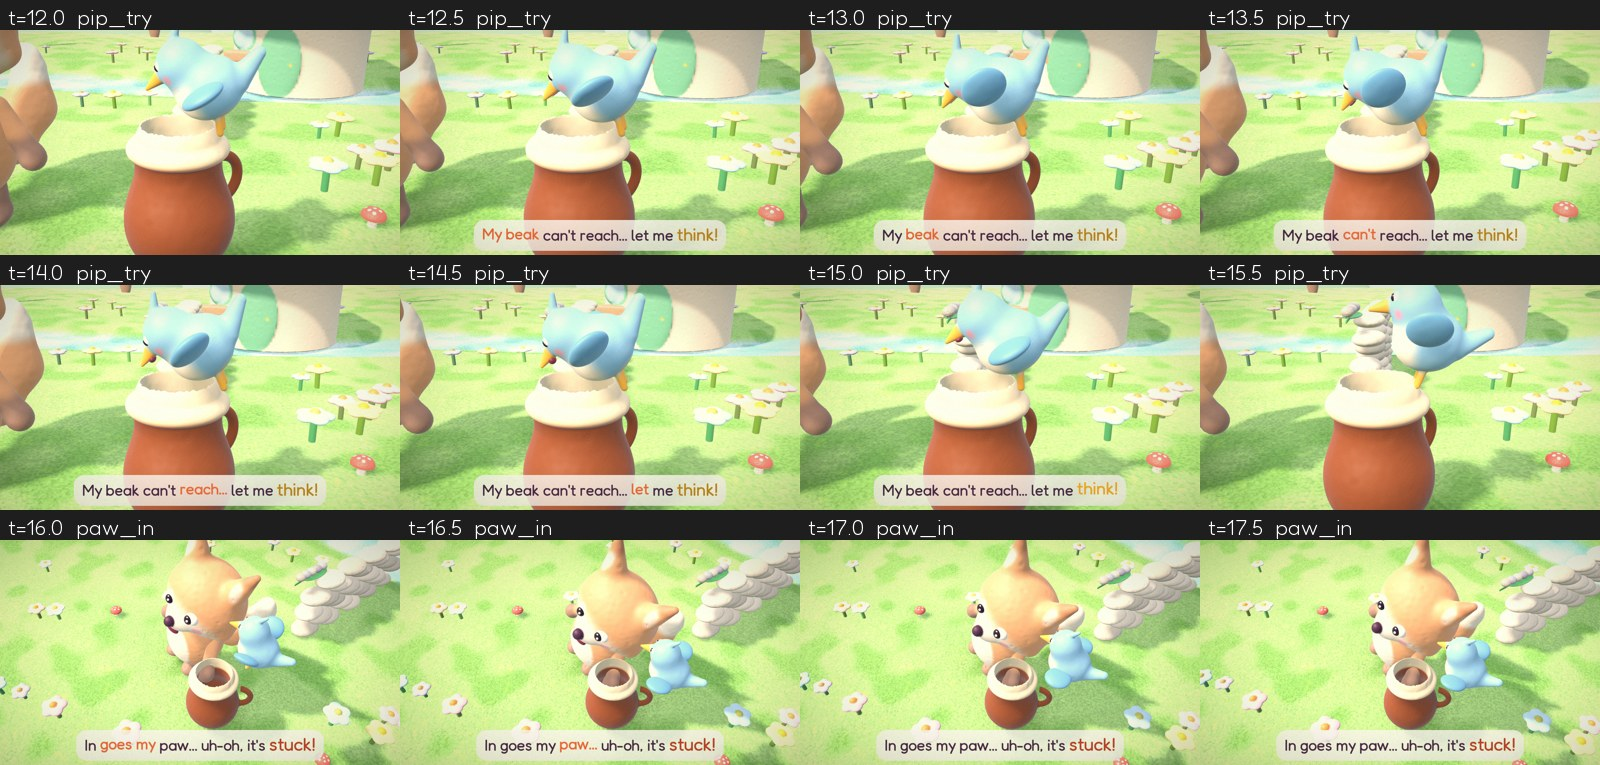
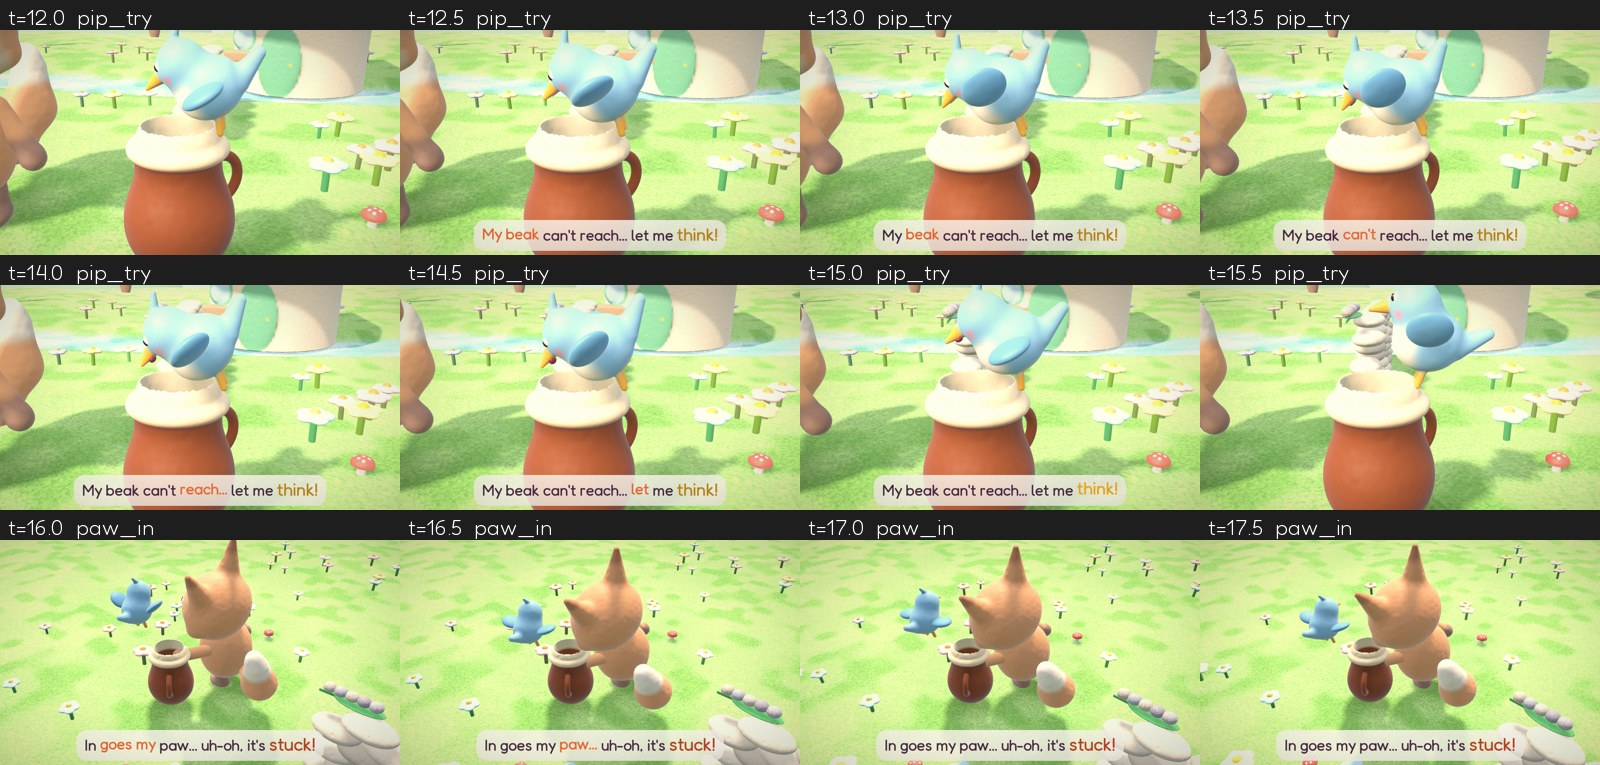
Fable 3: review round 2 fixes (paw-in from behind plus a face reaction shot, droplet sprays, pebbles sink at once, hook neck, wide count framing)
Claude-Session: https://claude.ai/code/session_01BFozMBD3P58CaUxgzuKyHS

Changed region(s): [[0.0, 0.6915, 1.0, 1.0], [0.0, 0.9621, 0.0312, 0.9922]]

diff --git a/batches/01-fables-friendship/fable-03-pebble-pebble-plop/code/render.py b/batches/01-fables-friendship/fable-03-pebble-pebble-plop/code/render.py
@@ -110,8 +110,8 @@ def tumble(t):
         L = T.line("Setup B")
         if t > L["t1"]: st["head"][0] = 0.1 * math.sin((t - L["t1"]) * 8) * math.exp(-(t - L["t1"]))
         pant(st, t)
-    elif n == "paw_in":
-        a = SH[n][0]
+    elif n in ("paw_in", "paw_stuck"):
+        a = SH["paw_in"][0]
         u = ease(clampu(t, T.PAW_IN - 0.2, T.PAW_IN + 0.7))
         st["roll"] = STUCK_ROLL * u; st["y"] += 0.036 * u
         st["arms"][0] = lerp([0.5, 1.4], STUCK_ARM, ease(clampu(t, T.PAW_IN - 0.2, T.PAW_IN + 0.4))).tolist() if t > T.PAW_IN - 0.2 else [0.2, 0.3]
@@ -268,7 +268,7 @@ def pip_state(t, st, mats):
     face = apply(Mh, (0, 1.5, 0.6))
     into = facing(RIM_FAR, JC)
     if n in ("hook_peer", "hook_pov"):                     # peering down into the jug
-        pk = 0.45 + 0.08 * math.sin(t * 2.2)
+        pk = (0.45 if n == "hook_peer" else 0.12) + 0.05 * math.sin(t * 2.2)
         return RIM_FAR, into, False, pk, True, {"wings": (0.3, 0.3)}
     if n in ("title_wide", "hot_walk"):                    # hot: fanning himself with a wing on the rim
         yaw = into + 0.9 * ease(clampu(t, SH["title_wide"][0] + 0.5, SH["title_wide"][0] + 1.2))
@@ -281,8 +281,8 @@ def pip_state(t, st, mats):
         ex = {"wings": (1.0 + 0.3 * math.sin(t * 16), 1.0 + 0.3 * math.sin(t * 16 + 1))} if reach > 0.5 else {"wings": (0.2, 0.2)}
         if t > L["t1"] - 0.2: ex = {"point": True}         # "let me think!": wing up to his head
         return RIM_FAR, into, False, pk * (t < L["t1"] - 0.2) + 0.0, True, ex
-    if n == "paw_in":                                      # hops off the rim to hover beside, clear of the paw
-        a = SH[n][0]; u = clampu(t, a, a + 0.7)
+    if n in ("paw_in", "paw_stuck"):                       # hops off the rim to hover beside, clear of the paw
+        a = SH["paw_in"][0]; u = clampu(t, a, a + 0.7)
         p = lerp(RIM_FAR, HOVER_R, ease(u)); p[1] += 0.3 * math.sin(math.pi * u)
         p = p + np.array([0, 0.05 * math.sin(t * 6), 0]) * (u >= 1)
         return p, facing(p, face), True, 0.0, False, {"gentle": True}
@@ -367,10 +367,10 @@ def pebbles(t, st, mats, Mp, jugM):
                 u = clampu(t, c, c + 0.22)
                 p = top.copy(); p[1] = lerp(top[1], surf_y, u * u)
                 if t > c + 0.22:
-                    bot = jw(PEB_BOTTOM[k]); v = ease(clampu(t, c + 0.22, c + 0.9))
+                    bot = jw(PEB_BOTTOM[k]); v = ease(clampu(t, c + 0.22, c + 0.42))        # slips under the surface at once and settles on the floor
                     p = lerp(np.array([JC[0], surf_y, JC[2]]), bot, v)
                 out.append(p)
-        elif n in ("roll_back", "pull") or (n == "paw_in"):
+        elif n in ("roll_back", "pull") or n in ("paw_in", "paw_stuck"):
             out.append(seat)
         elif n in ("hook_peer", "hook_pov", "title_wide", "hot_walk", "pip_try"):
             out.append(seat)
@@ -385,8 +385,8 @@ def camera(t):
         tgt = lerp(RIM_FAR, JC, 0.5) + np.array([0, 0.05, 0])
         return fit_cam(tgt, lerp(8, 18, e), 14, 0.75, 0.75, lift=0.1)
     if name == "hook_pov":                                 # overhead down the neck: the water is way down there
-        tgt = jw((0, 0.4, 0)) - np.array([0.1, 0, 0])
-        return fit_cam(tgt, -60, lerp(78, 82, e), 0.5, 0.5, fov=40, lift=0.0)
+        tgt = jw((0, 0.35, 0)) - np.array([0.1, 0, 0])
+        return fit_cam(tgt, -60, lerp(72, 77, e), 0.7, 0.7, fov=40, lift=0.0)
     if name == "title_wide":
         return fit_cam(np.array([lerp(TS[0], J[0], 0.4) - 0.3, 1.5, J[1] - 0.6]), 8, 9, 3.0, 2.7 if not WIDE else 2.0, lift=0.05)
     if name == "hot_walk":                                 # low tracking alongside the trudge
@@ -396,17 +396,19 @@ def camera(t):
     if name == "pip_try":                                  # macro, side-on to Pip's beak and the mouth of the jug
         tgt = lerp(RIM_FAR, JC, 0.5) + np.array([0, 0.0, 0])
         return fit_cam(tgt, lerp(10, 2, e), 20, 0.62, 0.62, fov=34, lift=0.12)
-    if name == "paw_in":                                   # medium front: the paw goes in, uh-oh
-        return fit_cam(np.array([lerp(TS[0], J[0], 0.55), 0.95, TS[1] + 0.2]), lerp(52, 62, e), lerp(48, 42, e), 1.4, 1.4)   # high three-quarter: the paw goes down into the mouth
+    if name == "paw_in":                                   # from behind and above: his arm runs out to the jug and in
+        return fit_cam(np.array([0.15, 0.95, -0.2]), lerp(132, 142, e), 33, 1.8, 1.7 if not WIDE else 1.6)
+    if name == "paw_stuck":                                # reaction: the face on "stuck!", the jug at his chest
+        return fit_cam(np.array([lerp(TS[0], J[0], 0.55), 0.95, TS[1] + 0.2]), lerp(52, 62, e), lerp(48, 42, e), 1.4, 1.4)
     if name == "pull":                                     # wide low angle: pull, pull, POP
-        return fit_cam(np.array([lerp(TS[0], J[0], 0.55), 1.05, TS[1] + 0.2]), lerp(58, 50, e), 38, 1.8, 1.8)
+        return fit_cam(np.array([0.15, 0.95, -0.2]), 138, 33, 2.0, 2.0)
     if name == "roll_back":                                # wide side: the roll back to the wall
         k = ease(clampu(t, SH["roll_back"][0], T.ROLL_END + 0.3))
         k2 = ease(clampu(t, T.ROLL_END + 0.4, T.IDEA + 0.3))
         return fit_cam(np.array([lerp(TS[0] + 0.3, LAND[0] + 0.3, k) + 0.5 * k2, 1.1, lerp(TS[1] - 0.4, LAND[1] + 0.1, k) - 0.35 * k2]), lerp(8, 30, k2), 22, lerp(2.3, 2.6, k2), lerp(2.0, 2.2, k2))
     if name == "count":                                    # high three-quarter close-up into the jug mouth
         tgt = JC + np.array([0, 0.12, 0]) - np.array([math.sin(CUP_YAW), 0, math.cos(CUP_YAW)]) * 0.18
-        return fit_cam(tgt, math.degrees(CUP_YAW) - lerp(28, 18, e), 58, 1.0, 1.0, fov=36, lift=0.1)
+        return fit_cam(tgt + (np.array([0, 0.3, 0]) if WIDE else 0), math.degrees(CUP_YAW) - lerp(28, 18, e), 58, 1.0, 1.45 if WIDE else 1.0, fov=36, lift=0.1)
     if name == "drink":
         tgt = lerp(JC, np.array([DRINK[0], 1.0, DRINK[1]]), 0.4)
         return fit_cam(tgt, DRINK_CAM_YAW, 36, 1.8, 1.5, lift=0.1)
@@ -429,6 +431,16 @@ class QAIgnore:
 QAI = QAIgnore()
 
 STONE_T = (0.84, 0.8, 0.74)
+def spray(draws, c, t0, t, n=12, size=0.03, speed=0.9, dur=0.4, tint=(0.7, 0.9, 1.0), cone=0.9, seed=0.0):
+    """water droplets thrown up and out in a loose, uneven fan (gravity pulls them down), shrinking as they fade"""
+    d = t - t0
+    if not (0 <= d < dur): return
+    for k in range(n):
+        a = (k * 2.399 + seed) % (2 * math.pi); e = cone * (0.35 + 0.65 * ((k * 0.618 + seed) % 1.0))     # azimuth, tilt from vertical
+        v = speed * (0.6 + 0.4 * ((k * 0.377 + seed) % 1.0))
+        vel = np.array([math.sin(e) * math.cos(a), math.cos(e), math.sin(e) * math.sin(a)]) * v
+        q = np.asarray(c) + vel * d + np.array([0, -2.2, 0]) * d * d
+        draws.append((PR["ball"], trans(*q) @ scale(size * (1 - d / dur) * (0.7 + 0.5 * ((k * 0.53) % 1.0))), U(mat=0, bump=0.0, tint=tint, tintMix=1.0), False))
 def build_draws(t):
     QAI.t = t
     draws, contacts = [], []
@@ -469,10 +481,11 @@ def build_draws(t):
     TM, seats = tray_mats(t, st, mats)
     draws.append((E2["bigleaf"], TM, U(mat=0, bump=0.3, obj="leaf"), True))
     for i, p in enumerate(pebbles(t, st, mats, Mp, jugM)):
-        draws.append((PR["ball"], trans(*p) @ scale(PEB_R, PEB_R * 0.8, PEB_R), U(mat=0, bump=0.4, tint=PEB_TINT[i], tintMix=1.0, obj="pebble"), True))
+        sk = 1.0
+        draws.append((PR["ball"], trans(*p) @ scale(PEB_R * sk, PEB_R * 0.8 * sk, PEB_R * sk), U(mat=0, bump=0.4, tint=PEB_TINT[i], tintMix=1.0, obj="pebble"), True))
     for c in T.COUNT:                                      # plop: a splash out of the mouth on every pebble
         _, l2 = n_in(c + 0.22)
-        puff(draws, jw((0, l2 + 0.05, 0)), c + 0.22, t, n=14, size=0.05, spread=0.45, dur=0.55, tint=(0.75, 0.9, 1.0), axis=(0, 0.9, 0))
+        spray(draws, jw((0, l2 + 0.03, 0)), c + 0.22, t, n=14, size=0.04, speed=1.1, dur=0.5, cone=0.55, seed=c)
     if T.POP - 0.02 < t < T.POP + 0.5:                       # the cork-pop
         puff(draws, jw((0, RIM_Y + 0.12, 0)), T.POP, t, n=10, size=0.06, spread=0.9, dur=0.45, tint=(1.0, 0.96, 0.85), axis=(0, 0.6, 0.2))
     if n == "button_crane":                                # the wing-splash arcs onto Tumble's nose
@@ -481,8 +494,8 @@ def build_draws(t):
         if 0 < u < 1:
             for j in range(4):
                 q = lerp(JC + np.array([0, 0.05, 0]), nose, u - 0.04 * j); q[1] += 0.45 * math.sin(math.pi * (u - 0.04 * j))
-                draws.append((PR["ball"], trans(*q) @ scale(0.05), U(mat=3, bump=0.0, tint=(0.6, 0.85, 1.0), tintMix=1.0), False))
-        puff(draws, nose, T.SPLASH, t, n=16, size=0.06, spread=0.7, dur=0.55, tint=(0.7, 0.9, 1.0), axis=(0, 0.3, 0.3))
+                draws.append((PR["ball"], trans(*q) @ scale(0.04), U(mat=3, bump=0.0, tint=(0.6, 0.85, 1.0), tintMix=1.0), False))
+        spray(draws, nose + np.array([0, 0.02, 0.12]), T.SPLASH, t, n=10, size=0.05, speed=0.9, dur=0.4, cone=0.9, seed=2.0)
     return draws, contacts
 
 # ---------------- hot-day grade ----------------

diff --git a/batches/01-fables-friendship/fable-03-pebble-pebble-plop/code/timeline.py b/batches/01-fables-friendship/fable-03-pebble-pebble-plop/code/timeline.py
@@ -95,13 +95,14 @@ STUCK = (word_times("stuck", "Problem A") or [_pa[0] + 2.5])[0]
 PULLS = word_times("pull", "Problem B")[:3] or [_pb[0] + 0.3 + 0.45 * k for k in range(3)]
 POP = (word_times("pop", "Problem B") or [PULLS[-1] + 0.9])[0]
 COUNT = [(word_times(w, "Twist") or [_tw[0] + 1.2 + 0.6 * k])[0] for k, w in enumerate(("one", "two", "three", "four", "five"))]
+PAW_SPLIT = STUCK - 0.4                                               # the paw goes in (seen from behind), then the face on 'stuck!'
 HOOK_SPLIT = _clip(_h[0] + 1.9, 1.4, _h[1] - 1.4)                     # Pip peering in, then the look down the neck
 PB_SPLIT = _clip(POP + 0.35, _pb[0] + 1.4, _pb[1] - 3.0)              # the pull and the pop, then the backward roll
 TW_SPLIT = COUNT[-1] + 0.55                                           # the counting drops (last plop on 'five'), then the drink
 COUNT_CUT = (word_times('pebbles', 'Twist') or [_tw[0] + 2.0])[0] - 1.1       # leaf lift stays on screen until just before 'Pebbles in!'
 MORAL_CUT = (word_times('think', 'Moral') or [_m[0] + 1.0])[0] - 0.15   # moral shot starts just before the sung 'Think'
 SHOTS = [(0.0, HOOK_SPLIT, "hook_peer"), (HOOK_SPLIT, _h[1], "hook_pov"), (_s[0], _s[1], "title_wide"),
-         (_sa[0], _sa[1], "hot_walk"), (_sb[0], _sb[1], "pip_try"), (_pa[0], _pa[1], "paw_in"),
+         (_sa[0], _sa[1], "hot_walk"), (_sb[0], _sb[1], "pip_try"), (_pa[0], PAW_SPLIT, "paw_in"), (PAW_SPLIT, _pa[1], "paw_stuck"),
          (_pb[0], PB_SPLIT, "pull"), (PB_SPLIT, COUNT_CUT, "roll_back"), (COUNT_CUT, TW_SPLIT, "count"),
          (TW_SPLIT, MORAL_CUT, "drink"), (MORAL_CUT, _m[1], "moral"), (_c[0], _c[1], "chorus"), (_bt[0], DURATION + 0.1, "button_crane")]
 def shot_at(t):
